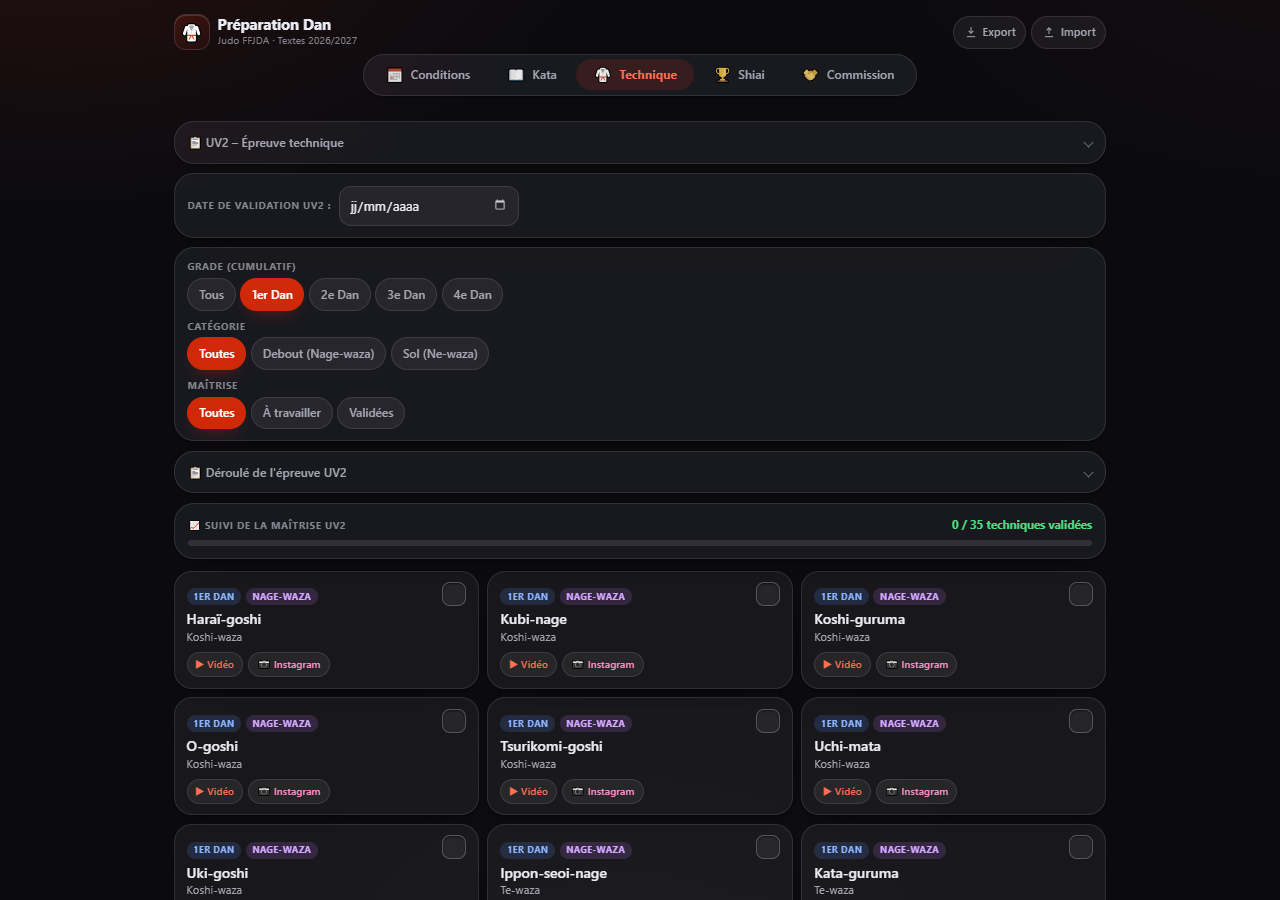
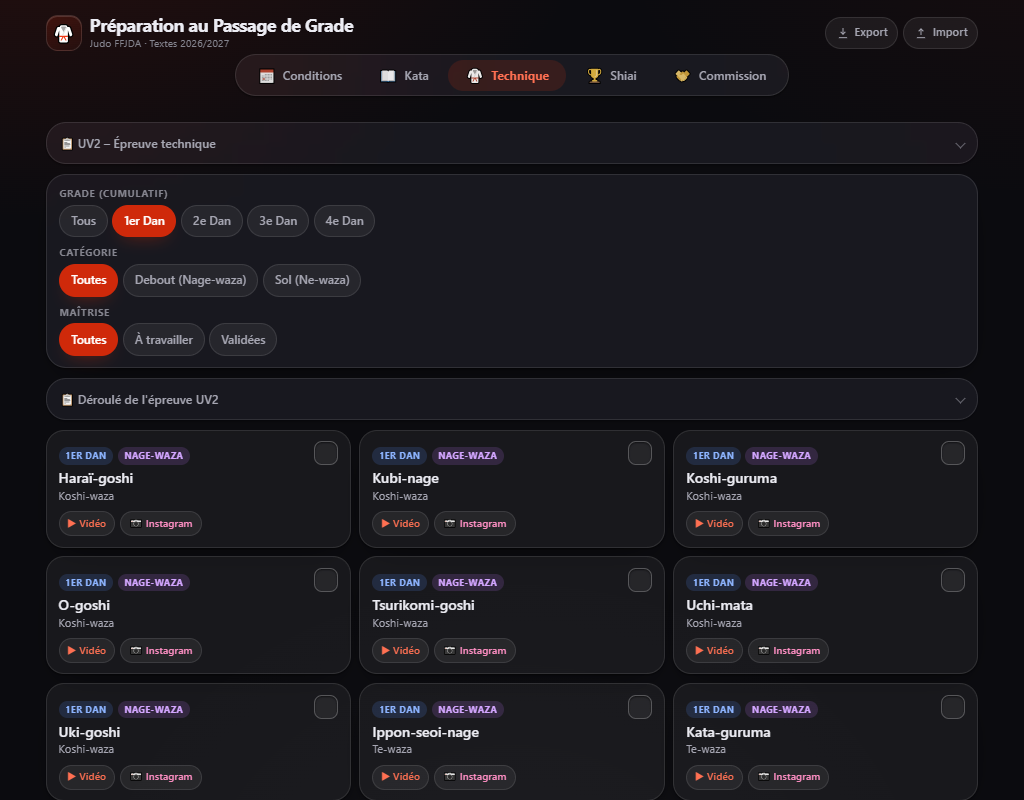
update v1.2

diff --git a/index.html b/index.html
@@ -3,10 +3,10 @@
 <head>
 <meta charset="UTF-8">
 <meta name="viewport" content="width=device-width, initial-scale=1, viewport-fit=cover">
-<title>Préparation Dan – Judo FFJDA 2026/2027</title>
+<title>Préparation au Passage de Grade – Judo FFJDA 2026/2027</title>
 <style>
 /* ============================================================
-   Préparation Dan – habillage « glass », mobile d'abord
+   Préparation au Passage de Grade – habillage « glass », mobile d'abord
    Charte conservée : rouge (#CF290A) + vert validation, fond sombre
    ============================================================ */
 :root{
@@ -64,7 +64,8 @@ a{color:inherit}
   border:1px solid rgba(255,255,255,.12);
   box-shadow:inset 0 1px 0 rgba(255,255,255,.14);
 }
-.brand h1{font-size:.95rem;font-weight:700;letter-spacing:-.015em;line-height:1.15;white-space:nowrap;overflow:hidden;text-overflow:ellipsis}
+.brand>div{min-width:0}
+.brand h1{font-size:1.1rem;font-weight:700;letter-spacing:-.015em;line-height:1.2;white-space:normal;overflow-wrap:break-word;text-wrap:balance}
 .brand p{font-size:.65rem;color:var(--faint);white-space:nowrap;overflow:hidden;text-overflow:ellipsis}
 .tools{margin-left:auto;display:flex;gap:.3rem;flex:none}
 .tool{
@@ -74,6 +75,7 @@ a{color:inherit}
   transition:color .18s,background .18s,border-color .18s,transform .18s;
 }
 .tool svg{width:14px;height:14px;flex:none;stroke:currentColor;fill:none;stroke-width:1.7;stroke-linecap:round;stroke-linejoin:round}
+.tool .lbl{display:none}
 .tool:hover{color:var(--accent-text);border-color:rgba(207,41,10,.38);background:rgba(255,255,255,.12)}
 .tool:active{transform:scale(.97)}
 
@@ -140,7 +142,7 @@ nav.tabs label .ic{font-size:1.02rem;line-height:1;filter:grayscale(.35);opacity
 
 /* ---------- Champs ---------- */
 input[type="date"],input[type="number"],input[type="text"],select,textarea{
-  width:100%;font-family:inherit;font-size:.8rem;color:var(--text);
+  width:100%;min-width:0;max-width:100%;font-family:inherit;font-size:.8rem;color:var(--text);
   background:rgba(255,255,255,.055);border:1px solid var(--border);border-radius:12px;
   padding:.5rem .6rem;min-height:40px;
   transition:border-color .16s,box-shadow .16s,background .16s;
@@ -198,8 +200,8 @@ body:has(#c-nage:checked) #sub-nage{display:flex}
 body:has(#c-ne:checked) #sub-ne{display:flex}
 
 /* ---------- Dates ---------- */
-.date-box{margin:0 0 .6rem;padding:.7rem .8rem;display:grid;gap:.5rem;font-size:.78rem}
-.date-box label{display:flex;flex-direction:column;gap:.25rem;font-size:.61rem;font-weight:700;text-transform:uppercase;letter-spacing:.07em;color:var(--faint)}
+.date-box{margin:0 0 .6rem;padding:.7rem .8rem;display:grid;gap:.5rem;font-size:.78rem;min-width:0}
+.date-box label{display:flex;flex-direction:column;gap:.25rem;min-width:0;font-size:.61rem;font-weight:700;text-transform:uppercase;letter-spacing:.07em;color:var(--faint)}
 .date-box label:has(input[type="checkbox"]){flex-direction:row;align-items:center;gap:.5rem;text-transform:none;letter-spacing:0;font-size:.78rem;font-weight:500;color:var(--text)}
 
 /* ---------- Déroulé UV2 ---------- */
@@ -305,7 +307,7 @@ body:has(#tg-all:checked) #uv2-all{display:block}
   font-size:.58rem;font-weight:700;text-transform:uppercase;letter-spacing:.07em;color:var(--faint);
   background:rgba(255,255,255,.04);border-bottom:1px solid var(--border);
 }
-.shiai-table td{padding:.45rem .5rem;border-bottom:1px solid rgba(255,255,255,.06);font-size:.78rem;vertical-align:middle}
+.shiai-table td{padding:.45rem .5rem;min-width:0;border-bottom:1px solid rgba(255,255,255,.06);font-size:.78rem;vertical-align:middle}
 .shiai-table tr:last-child td{border-bottom:0}
 .shiai-table tr.row-ok td{background:rgba(74,222,128,.09)}
 .shiai-table tr.row-ok td:first-child{box-shadow:inset 3px 0 0 var(--green)}
@@ -356,8 +358,8 @@ body:has(#dan-1:checked) #kataNageVideo,body:has(#dan-2:checked) #kataNageVideo,
 .cond-box{margin:0 0 .6rem;padding:.85rem}
 .cond-box h3{font-size:.8rem;font-weight:700;margin-bottom:.5rem}
 .cond-grid{display:grid;gap:.65rem}
-.cond-inputs{display:grid;gap:.5rem}
-.cond-inputs label{display:flex;flex-direction:column;gap:.25rem;font-size:.61rem;font-weight:700;text-transform:uppercase;letter-spacing:.07em;color:var(--faint)}
+.cond-inputs{display:grid;gap:.5rem;min-width:0}
+.cond-inputs label{display:flex;flex-direction:column;gap:.25rem;min-width:0;font-size:.61rem;font-weight:700;text-transform:uppercase;letter-spacing:.07em;color:var(--faint)}
 .cond-results{
   background:rgba(74,222,128,.09);border:1px solid rgba(74,222,128,.24);
   border-radius:16px;padding:.8rem .85rem;font-size:.77rem;color:#cfe9d8;
@@ -436,7 +438,7 @@ body:has(#dan-4:checked) .kata-card:not([data-kgrade="4"]){display:none}
   .shiai-table thead{display:none}
   .shiai-table tbody,.shiai-table tr,.shiai-table td{display:block;width:100%}
   .shiai-table tr{
-    position:relative;display:grid;grid-template-columns:1fr 1fr;gap:.5rem;
+    position:relative;display:grid;grid-template-columns:minmax(0,1.5fr) minmax(0,1fr);gap:.5rem;
     grid-template-areas:"date pts" "lieu lieu" "note note";
     padding:.65rem .7rem 1.5rem;margin-bottom:.5rem;
     border-radius:16px;background:rgba(255,255,255,.055);
@@ -460,9 +462,8 @@ body:has(#dan-4:checked) .kata-card:not([data-kgrade="4"]){display:none}
   .shiai-threshold{margin-left:0;width:100%;text-align:left}
 }
 @media (max-width:359px){
-  .tool .lbl{display:none}
   .tool{padding:.46rem}
-  .brand h1{font-size:.9rem}
+  .brand h1{font-size:1rem}
   .container{padding:0 .7rem}
 }
 
@@ -492,7 +493,7 @@ body:has(#dan-4:checked) .kata-card:not([data-kgrade="4"]){display:none}
   .video-box{max-width:none}
   .filters-row strong{width:auto;margin:0 .3rem 0 0}
   .cond-grid{grid-template-columns:1fr}
-  .cond-inputs{grid-template-columns:1fr 1fr;gap:.55rem .9rem}
+  .cond-inputs{grid-template-columns:minmax(0,1fr) minmax(0,1fr);gap:.55rem .9rem}
   .cond-results{order:-1}
   .commission-fields{grid-template-columns:auto 1fr auto;align-items:end}
   .shiai-table-wrap{background:var(--card);-webkit-backdrop-filter:var(--glass);backdrop-filter:var(--glass);border:1px solid var(--hair);box-shadow:var(--shadow)}
@@ -514,7 +515,7 @@ body:has(#dan-4:checked) .kata-card:not([data-kgrade="4"]){display:none}
 <meta name="theme-color" content="#0b0b0f">
 <meta name="apple-mobile-web-app-capable" content="yes">
 <meta name="apple-mobile-web-app-status-bar-style" content="black-translucent">
-<meta name="apple-mobile-web-app-title" content="Judo Dan">
+<meta name="apple-mobile-web-app-title" content="Passage de Grade">
 <link rel="apple-touch-icon" href="icon-180.png">
 <script>
 if('serviceWorker' in navigator){ window.addEventListener('load', function(){ navigator.serviceWorker.register('sw.js').catch(function(){}); }); }
@@ -526,7 +527,7 @@ if('serviceWorker' in navigator){ window.addEventListener('load', function(){ na
 <div class="brand">
 <span class="mark">🥋</span>
 <div>
-<h1>Préparation Dan</h1>
+<h1>Préparation au Passage de Grade</h1>
 <p>Judo FFJDA · Textes 2026/2027</p>
 </div>
 </div>
@@ -593,11 +594,6 @@ if('serviceWorker' in navigator){ window.addEventListener('load', function(){ na
 <small>Source : Textes Officiels 2026/2027 – Art. 3.3.</small>
 </details>
 
-<div class="date-box">
-<label>Date de validation UV1 : <input type="date" id="kataDate"></label>
-<label><input type="checkbox" id="exempt40Kata"> J'ai 40 ans et plus (Dispensé du rôle de Uke)</label>
-</div>
-
 <div class="filters-row">
 <strong>Grade :</strong>
 <input type="radio" name="globalDan" id="dan-all" checked class="global-grade"><label for="dan-all">Tous</label>
@@ -628,6 +624,11 @@ if('serviceWorker' in navigator){ window.addEventListener('load', function(){ na
 <!-- 4e DAN -->
 <article class="kata-card" data-kgrade="4"><div class="kata-head"><div><span class="badge dan4">4e Dan</span><h3>Ju-no-Kata</h3><p class="sub">Intégralité – rôle <strong>Tori</strong> uniquement</p></div><input type="checkbox" class="kata-track" data-id="4-jnk-tori"></div></article>
 </div>
+
+<div class="date-box">
+<label>Date de validation UV1 : <input type="date" id="kataDate"></label>
+<label><input type="checkbox" id="exempt40Kata"> J'ai 40 ans et plus (Dispensé du rôle de Uke)</label>
+</div>
 </div>
 
 <!-- ============================ UV2 TECHNIQUE ============================ -->
@@ -637,10 +638,6 @@ if('serviceWorker' in navigator){ window.addEventListener('load', function(){ na
 <p>Le candidat démontre des techniques de <em>Nage-waza</em> et <em>Ne-waza</em>.</p>
 <small>Source : Textes Officiels 2026/2027 – Art. 3.3.</small>
 </details>
-
-<div class="date-box">
-<label>Date de validation UV2 : <input type="date" id="techDate"></label>
-</div>
 
 <section class="filters">
 <fieldset>
@@ -698,14 +695,6 @@ if('serviceWorker' in navigator){ window.addEventListener('load', function(){ na
 <ul><li><strong>Epreuve 1</strong> : Go-no-Sen (exercice de contre prise) en Tori.</li><li><strong>Epreuve 2</strong> : Tokui-waza Nage-waza (opportunités, séquences tactiques, liaisons debout-sol). Durée : 3 min.</li><li><strong>Epreuve 3</strong> : Tokui-waza Ne-waza. Durée : 2 min.</li></ul>
 </div>
 </details>
-
-<div class="progress-container">
-<div class="progress-header">
-<h3>📈 Suivi de la maîtrise UV2</h3>
-<span class="progress-text" id="progressText">0 / 0 techniques validées</span>
-</div>
-<div class="progress-track"><div class="progress-fill" id="progressFill"></div></div>
-</div>
 
 <div class="grid" id="grid">
 <!-- 1er DAN - NAGE -->
@@ -811,6 +800,18 @@ if('serviceWorker' in navigator){ window.addEventListener('load', function(){ na
 <article class="card" data-grade="3" data-cat="ne" data-fam="kansetsu"><div class="card-head"><div><span class="badge dan3">3e Dan</span> <span class="badge b-ne">Ne-waza</span><h3>Ude-hishigi-hara-gatame</h3><p class="sub">Kansetsu-waza</p></div><input type="checkbox" class="track" data-id="3-ude-hishigi-hara-gatame"></div></article>
 </div>
 <p class="empty-hint" id="techEmpty" aria-live="polite" style="display:none">Aucune technique ne correspond à ces filtres.</p>
+
+<div class="progress-container">
+<div class="progress-header">
+<h3>📈 Suivi de la maîtrise UV2</h3>
+<span class="progress-text" id="progressText">0 / 0 techniques validées</span>
+</div>
+<div class="progress-track"><div class="progress-fill" id="progressFill"></div></div>
+</div>
+
+<div class="date-box">
+<label>Date de validation UV2 : <input type="date" id="techDate"></label>
+</div>
 </div>
 
 <!-- ============================ UV3 SHIAI ============================ -->
@@ -821,12 +822,6 @@ if('serviceWorker' in navigator){ window.addEventListener('load', function(){ na
 <p class="rule-combi">Option <strong>Efficacité combinée</strong> : <strong>partie A = 20 points attendus</strong> (points de compétition), plus la <strong>partie B</strong> à valider séparément.</p>
 <p>Barème sportif : victoire par <strong>ippon = 10 points</strong> ; victoire par <strong>waza-ari = 7 points</strong>.</p>
 </details>
-
-<div class="shiai-total">
-<span class="shiai-label">Total cumulé</span>
-<span class="shiai-score"><strong id="shiaiTotalValue">0</strong><span class="unit">points</span></span>
-<span class="shiai-threshold" id="shiaiThreshold"></span>
-</div>
 
 <div class="uv3-mode">
 <strong>Option d'efficacité :</strong>
@@ -864,6 +859,12 @@ if('serviceWorker' in navigator){ window.addEventListener('load', function(){ na
 <tr><td><input type="date" data-f="date" value=""></td><td><input type="text" data-f="lieu" value="" placeholder="Shiai / test efficacité…"></td><td><input type="number" min="0" step="1" data-f="pts" value="0"></td><td><input type="text" data-f="note" value="" placeholder=""></td><td><button class="del-row" title="Supprimer">×</button></td></tr>
 </tbody>
 </table>
+</div>
+
+<div class="shiai-total">
+<span class="shiai-label">Total cumulé</span>
+<span class="shiai-score"><strong id="shiaiTotalValue">0</strong><span class="unit">points</span></span>
+<span class="shiai-threshold" id="shiaiThreshold"></span>
 </div>
 </div>
 
